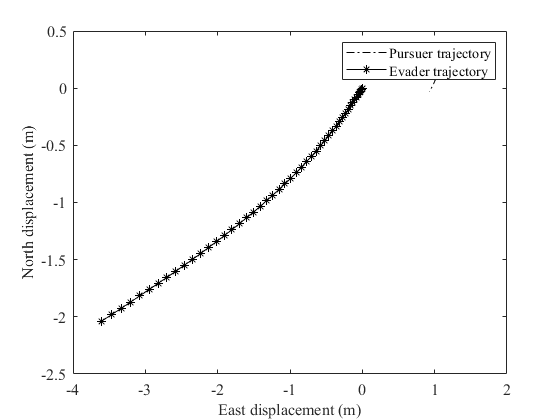
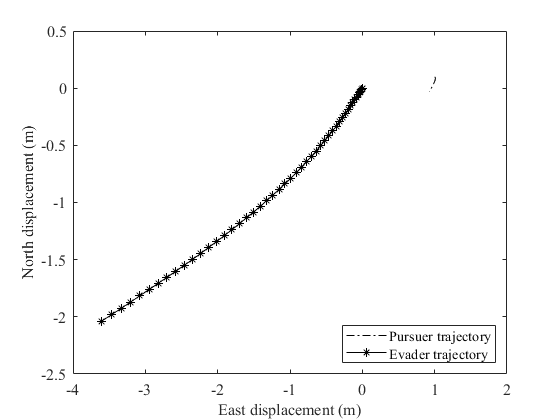
updated plots

Changed region(s): [[0.6071, 0.7738, 0.8804, 0.8667], [0.6071, 0.0929, 0.8804, 0.1857], [0.6071, 0.0929, 0.6375, 0.1238]]

diff --git a/figs_and_mats/_paper1/topSimulateQuadPE_TargetIMMKF.m b/figs_and_mats/_paper1/topSimulateQuadPE_TargetIMMKF.m
@@ -442,7 +442,7 @@ plot(xStore(19,:),xStore(20,:),'-*k')
 figset
 xlabel('East displacement (m)')
 ylabel('North displacement (m)')
-legend('Pursuer trajectory','Evader trajectory')
+legend('Pursuer trajectory','Evader trajectory','Location','southeast')
 figset
 
 %<<>> clean this up
